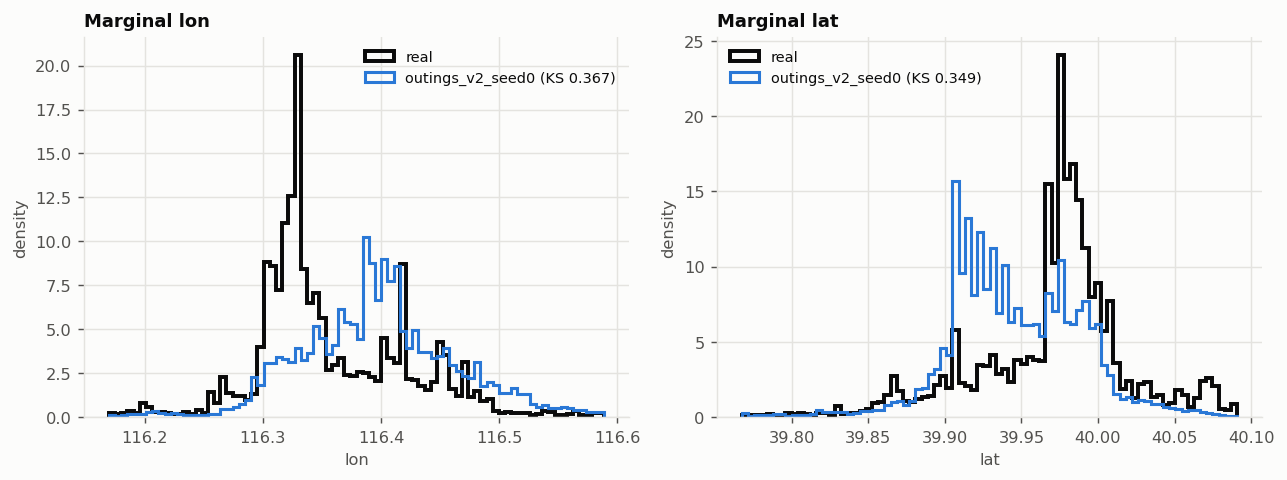
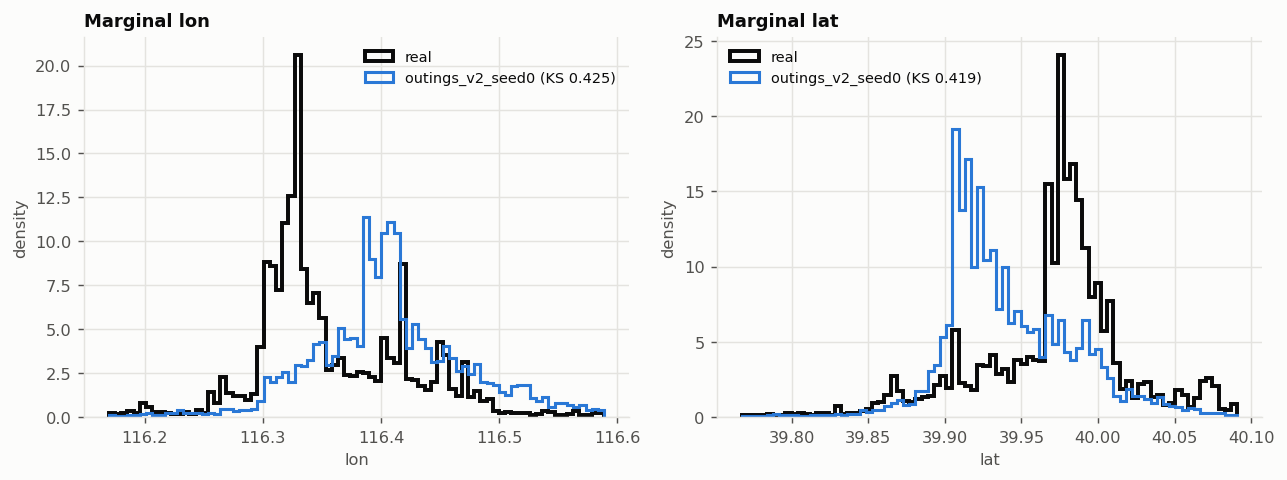
geolife step 8: refresh real-vs-synthetic comparison on the D27 artifacts; real map-matching results
- new compare_outings_v2_seed0_d27.{csv,md} (139 synthetic users generated into
  Beijing from the regenerated 26-table seed0 artifact vs the real Beijing frame);
  the pre-D27 baseline and steps-4/5 tables are kept as history.
- results/viz/outings_v2_seed0/ panels regenerated on the same run.
- results/match_real.json: HMM matcher on 422 real Beijing outings of 8 users
  over the cached Overture road graph (aggregates only).

diff --git a/src/algorithms/algo_aim/geolife/eval/results/viz/outings_v2_seed0/summary.md b/src/algorithms/algo_aim/geolife/eval/results/viz/outings_v2_seed0/summary.md
@@ -1,30 +1,30 @@
 | quantity | group | n_real | n_syn | real_mean | syn_mean | real_p50 | syn_p50 | real_p95 | syn_p95 | ks | wasserstein | tv | rel_err_mean | rel_err_p50 |
 |---|---|---|---|---|---|---|---|---|---|---|---|---|---|---|
-| sampling_interval | point | 1948679 | 2249607 | 3.43 | 4.82 | 2 | 3 | 5 | 20 | 0.174 | 1.63 | 0.277 | 0.405 | 0.5 |
-| gap_len | point | 19095 | 13366 | 436 | 523 | 199 | 188 | 1.88e+03 | 2.5e+03 | 0.119 | 90.6 | 0.23 | 0.199 | 0.0553 |
-| step_len | point | 1948679 | 2249607 | 13.3 | 11 | 6.42 | 4.83 | 45.1 | 38.5 | 0.113 | 2.75 | 0.212 | 0.17 | 0.248 |
-| speed | point | 1955426 | 2253990 | 5.09 | 2.59 | 2.19 | 1.53 | 18 | 7.55 | 0.227 | 2.7 | 0.336 | 0.491 | 0.301 |
-| speed_walk | point | 837742 | 1405666 | 2.79 | 1.68 | 1.24 | 1.27 | 12 | 3.31 | 0.167 | 1.46 | 0.329 | 0.398 | 0.0292 |
-| speed_bike | point | 415517 | 529557 | 4.59 | 3.21 | 3.02 | 2.91 | 14.6 | 6.4 | 0.186 | 1.78 | 0.277 | 0.3 | 0.0389 |
-| speed_bus | point | 280043 | 169273 | 7.02 | 4.89 | 5.69 | 4.63 | 18.4 | 10.8 | 0.234 | 2.38 | 0.34 | 0.303 | 0.186 |
-| speed_car | point | 221391 | 67543 | 10.7 | 7.96 | 10.9 | 7.33 | 21.7 | 20.4 | 0.189 | 2.93 | 0.246 | 0.259 | 0.329 |
-| speed_train | point | 27077 | 14907 | 16 | 13 | 17.2 | 11.7 | 27.5 | 35.2 | 0.316 | 5.6 | 0.407 | 0.185 | 0.32 |
-| heading_change | point | 993359 | 950179 | 11.6 | 20.7 | 3.53 | 4.99 | 49.1 | 124 | 0.113 | 8.96 | 0.164 | 0.779 | 0.413 |
-| stop_jitter | point | 20797 | 19916 | 67 | 62.7 | 65.4 | 61.5 | 108 | 109 | 0.116 | 4.53 | 0.122 | 0.0641 | 0.06 |
-| outing_length | outing | 17195 | 22733 | 15.2 | 12 | 9.56 | 8.2 | 48.6 | 35.5 | 0.0891 | 3.45 | 0.14 | 0.206 | 0.142 |
-| outing_duration | outing | 17195 | 22733 | 99.1 | 106 | 44.1 | 61.2 | 370 | 347 | 0.103 | 14.8 | 0.121 | 0.0655 | 0.387 |
-| stops_per_outing | outing | 17195 | 22733 | 1.13 | 0.873 | 0 | 0 | 5 | 4 | 0.0386 | 0.261 | 0.0386 | 0.23 |  |
-| stop_dwell | outing | 19494 | 19835 | 42.1 | 27.7 | 24 | 20.3 | 119 | 70.5 | 0.144 | 14.4 | 0.145 | 0.342 | 0.154 |
-| points_per_user | user | 179 | 139 | 1.019e+05 | 2.703e+05 | 2.48e+04 | 9.03e+04 | 4.180e+05 | 1.096e+06 | 0.315 | 1.684e+05 | 0.411 | 1.65 | 2.65 |
-| outings_per_user | user | 128 | 131 | 134 | 174 | 55 | 89 | 494 | 638 | 0.246 | 62.9 | 0.323 | 0.292 | 0.618 |
-| active_days | user | 128 | 131 | 75.4 | 85 | 37.5 | 45 | 245 | 308 | 0.2 | 24.9 | 0.321 | 0.128 | 0.2 |
-| distinct_places_per_user | user | 128 | 131 | 109 | 230 | 63 | 140 | 302 | 690 | 0.35 | 121 | 0.37 | 1.11 | 1.22 |
-| revisit_rate | user | 128 | 131 | 0.451 | 0.368 | 0.452 | 0.378 | 0.766 | 0.536 | 0.369 | 0.113 | 0.512 | 0.184 | 0.162 |
-| users_per_place | structure | 5022 | 9001 | 2.78 | 3.35 | 2 | 2 | 9 | 9 | 0.141 | 0.587 | 0.141 | 0.205 | 0 |
-| users_per_cell | structure | 12365 | 12378 | 9.72 | 13.1 | 4 | 5 | 37 | 58 | 0.0729 | 3.38 | 0.108 | 0.346 | 0.25 |
-| covisit_degree | structure | 128 | 131 | 19.2 | 18.1 | 12 | 14 | 50.6 | 44 | 0.129 | 2.66 | 0.312 | 0.0571 | 0.167 |
-| outing_start_hour_weekday | time | 12875 | 16721 |  |  |  |  |  |  |  |  | 0.121 |  |  |
-| outing_start_hour_weekend | time | 4320 | 6012 |  |  |  |  |  |  |  |  | 0.203 |  |  |
-| stop_hour_weekday | time | 13078 | 14598 |  |  |  |  |  |  |  |  | 0.198 |  |  |
-| stop_hour_weekend | time | 6416 | 5237 |  |  |  |  |  |  |  |  | 0.301 |  |  |
-| timebin_share | time | 17195 | 22733 |  |  |  |  |  |  |  |  | 0.102 |  |  |
+| sampling_interval | point | 1948679 | 2220012 | 3.43 | 4.66 | 2 | 3 | 5 | 19 | 0.167 | 1.49 | 0.287 | 0.357 | 0.5 |
+| gap_len | point | 19095 | 9614 | 436 | 695 | 199 | 217 | 1.88e+03 | 4.07e+03 | 0.17 | 259 | 0.251 | 0.595 | 0.0905 |
+| step_len | point | 1948679 | 2220012 | 13.3 | 8.57 | 6.42 | 3.02 | 45.1 | 30 | 0.233 | 4.89 | 0.297 | 0.354 | 0.529 |
+| speed | point | 1955426 | 2222591 | 5.09 | 2.13 | 2.19 | 0.954 | 18 | 7.74 | 0.293 | 3.01 | 0.369 | 0.581 | 0.565 |
+| speed_walk | point | 837742 | 1529992 | 2.79 | 1.28 | 1.24 | 0.836 | 12 | 2.84 | 0.281 | 1.66 | 0.39 | 0.542 | 0.325 |
+| speed_bike | point | 415517 | 332369 | 4.59 | 3.11 | 3.02 | 2.76 | 14.6 | 6.7 | 0.178 | 1.61 | 0.25 | 0.322 | 0.0872 |
+| speed_bus | point | 280043 | 142828 | 7.02 | 4.65 | 5.69 | 4.37 | 18.4 | 10.9 | 0.232 | 2.42 | 0.338 | 0.337 | 0.231 |
+| speed_car | point | 221391 | 90206 | 10.7 | 7.21 | 10.9 | 6.32 | 21.7 | 19.6 | 0.234 | 3.59 | 0.288 | 0.329 | 0.421 |
+| speed_train | point | 27077 | 10103 | 16 | 13.1 | 17.2 | 12.2 | 27.5 | 35.6 | 0.323 | 5.69 | 0.417 | 0.18 | 0.29 |
+| heading_change | point | 993359 | 638164 | 11.6 | 24.5 | 3.53 | 5.58 | 49.1 | 138 | 0.125 | 13 | 0.158 | 1.11 | 0.579 |
+| stop_jitter | point | 20797 | 17645 | 67 | 66.1 | 65.4 | 66.9 | 108 | 112 | 0.0883 | 4.74 | 0.137 | 0.0132 | 0.0228 |
+| outing_length | outing | 17195 | 17344 | 15.2 | 10.9 | 9.56 | 7.25 | 48.6 | 33 | 0.136 | 4.41 | 0.172 | 0.283 | 0.242 |
+| outing_duration | outing | 17195 | 17344 | 99.1 | 123 | 44.1 | 63 | 370 | 433 | 0.109 | 24.6 | 0.124 | 0.244 | 0.427 |
+| stops_per_outing | outing | 17195 | 17344 | 1.13 | 1.01 | 0 | 0 | 5 | 4 | 0.0314 | 0.186 | 0.0555 | 0.108 |  |
+| stop_dwell | outing | 19494 | 17531 | 42.1 | 30.9 | 24 | 18.5 | 119 | 93.1 | 0.117 | 11.2 | 0.118 | 0.267 | 0.228 |
+| points_per_user | user | 179 | 139 | 1.019e+05 | 2.424e+05 | 2.48e+04 | 7.07e+04 | 4.180e+05 | 1.022e+06 | 0.31 | 1.406e+05 | 0.373 | 1.38 | 1.85 |
+| outings_per_user | user | 128 | 126 | 134 | 138 | 55 | 72 | 494 | 479 | 0.177 | 37.6 | 0.317 | 0.0247 | 0.309 |
+| active_days | user | 128 | 126 | 75.4 | 67.9 | 37.5 | 42.5 | 245 | 242 | 0.0982 | 14.2 | 0.253 | 0.0993 | 0.133 |
+| distinct_places_per_user | user | 128 | 126 | 109 | 215 | 63 | 130 | 302 | 730 | 0.313 | 107 | 0.379 | 0.976 | 1.07 |
+| revisit_rate | user | 128 | 125 | 0.451 | 0.281 | 0.452 | 0.28 | 0.766 | 0.421 | 0.522 | 0.184 | 0.568 | 0.378 | 0.381 |
+| users_per_place | structure | 5022 | 8443 | 2.78 | 3.22 | 2 | 2 | 9 | 9 | 0.114 | 0.452 | 0.114 | 0.157 | 0 |
+| users_per_cell | structure | 12365 | 11834 | 9.72 | 10.8 | 4 | 4 | 37 | 47 | 0.0354 | 1.31 | 0.0799 | 0.115 | 0 |
+| covisit_degree | structure | 128 | 126 | 16.6 | 21.2 | 12 | 16.5 | 48.6 | 49 | 0.159 | 4.61 | 0.316 | 0.275 | 0.375 |
+| outing_start_hour_weekday | time | 12875 | 12748 |  |  |  |  |  |  |  |  | 0.137 |  |  |
+| outing_start_hour_weekend | time | 4320 | 4596 |  |  |  |  |  |  |  |  | 0.112 |  |  |
+| stop_hour_weekday | time | 13078 | 13027 |  |  |  |  |  |  |  |  | 0.181 |  |  |
+| stop_hour_weekend | time | 6416 | 4504 |  |  |  |  |  |  |  |  | 0.235 |  |  |
+| timebin_share | time | 17195 | 17344 |  |  |  |  |  |  |  |  | 0.0714 |  |  |

diff --git a/src/algorithms/algo_aim/geolife/eval/results/compare_outings_v2_seed0_d27.md b/src/algorithms/algo_aim/geolife/eval/results/compare_outings_v2_seed0_d27.md
@@ -1,0 +1,30 @@
+| quantity | group | n_real | n_syn | real_mean | syn_mean | real_p50 | syn_p50 | real_p95 | syn_p95 | ks | wasserstein | tv | rel_err_mean | rel_err_p50 |
+|---|---|---|---|---|---|---|---|---|---|---|---|---|---|---|
+| sampling_interval | point | 1948679 | 2220012 | 3.43 | 4.66 | 2 | 3 | 5 | 19 | 0.167 | 1.49 | 0.287 | 0.357 | 0.5 |
+| gap_len | point | 19095 | 9614 | 436 | 695 | 199 | 217 | 1.88e+03 | 4.07e+03 | 0.17 | 259 | 0.251 | 0.595 | 0.0905 |
+| step_len | point | 1948679 | 2220012 | 13.3 | 8.57 | 6.42 | 3.02 | 45.1 | 30 | 0.233 | 4.89 | 0.297 | 0.354 | 0.529 |
+| speed | point | 1955426 | 2222591 | 5.09 | 2.13 | 2.19 | 0.954 | 18 | 7.74 | 0.293 | 3.01 | 0.369 | 0.581 | 0.565 |
+| speed_walk | point | 837742 | 1529992 | 2.79 | 1.28 | 1.24 | 0.836 | 12 | 2.84 | 0.281 | 1.66 | 0.39 | 0.542 | 0.325 |
+| speed_bike | point | 415517 | 332369 | 4.59 | 3.11 | 3.02 | 2.76 | 14.6 | 6.7 | 0.178 | 1.61 | 0.25 | 0.322 | 0.0872 |
+| speed_bus | point | 280043 | 142828 | 7.02 | 4.65 | 5.69 | 4.37 | 18.4 | 10.9 | 0.232 | 2.42 | 0.338 | 0.337 | 0.231 |
+| speed_car | point | 221391 | 90206 | 10.7 | 7.21 | 10.9 | 6.32 | 21.7 | 19.6 | 0.234 | 3.59 | 0.288 | 0.329 | 0.421 |
+| speed_train | point | 27077 | 10103 | 16 | 13.1 | 17.2 | 12.2 | 27.5 | 35.6 | 0.323 | 5.69 | 0.417 | 0.18 | 0.29 |
+| heading_change | point | 993359 | 638164 | 11.6 | 24.5 | 3.53 | 5.58 | 49.1 | 138 | 0.125 | 13 | 0.158 | 1.11 | 0.579 |
+| stop_jitter | point | 20797 | 17645 | 67 | 66.1 | 65.4 | 66.9 | 108 | 112 | 0.0883 | 4.74 | 0.137 | 0.0132 | 0.0228 |
+| outing_length | outing | 17195 | 17344 | 15.2 | 10.9 | 9.56 | 7.25 | 48.6 | 33 | 0.136 | 4.41 | 0.172 | 0.283 | 0.242 |
+| outing_duration | outing | 17195 | 17344 | 99.1 | 123 | 44.1 | 63 | 370 | 433 | 0.109 | 24.6 | 0.124 | 0.244 | 0.427 |
+| stops_per_outing | outing | 17195 | 17344 | 1.13 | 1.01 | 0 | 0 | 5 | 4 | 0.0314 | 0.186 | 0.0555 | 0.108 |  |
+| stop_dwell | outing | 19494 | 17531 | 42.1 | 30.9 | 24 | 18.5 | 119 | 93.1 | 0.117 | 11.2 | 0.118 | 0.267 | 0.228 |
+| points_per_user | user | 179 | 139 | 1.019e+05 | 2.424e+05 | 2.48e+04 | 7.07e+04 | 4.180e+05 | 1.022e+06 | 0.31 | 1.406e+05 | 0.373 | 1.38 | 1.85 |
+| outings_per_user | user | 128 | 126 | 134 | 138 | 55 | 72 | 494 | 479 | 0.177 | 37.6 | 0.317 | 0.0247 | 0.309 |
+| active_days | user | 128 | 126 | 75.4 | 67.9 | 37.5 | 42.5 | 245 | 242 | 0.0982 | 14.2 | 0.253 | 0.0993 | 0.133 |
+| distinct_places_per_user | user | 128 | 126 | 109 | 215 | 63 | 130 | 302 | 730 | 0.313 | 107 | 0.379 | 0.976 | 1.07 |
+| revisit_rate | user | 128 | 125 | 0.451 | 0.281 | 0.452 | 0.28 | 0.766 | 0.421 | 0.522 | 0.184 | 0.568 | 0.378 | 0.381 |
+| users_per_place | structure | 5022 | 8443 | 2.78 | 3.22 | 2 | 2 | 9 | 9 | 0.114 | 0.452 | 0.114 | 0.157 | 0 |
+| users_per_cell | structure | 12365 | 11834 | 9.72 | 10.8 | 4 | 4 | 37 | 47 | 0.0354 | 1.31 | 0.0799 | 0.115 | 0 |
+| covisit_degree | structure | 128 | 126 | 16.6 | 21.2 | 12 | 16.5 | 48.6 | 49 | 0.159 | 4.61 | 0.316 | 0.275 | 0.375 |
+| outing_start_hour_weekday | time | 12875 | 12748 |  |  |  |  |  |  |  |  | 0.137 |  |  |
+| outing_start_hour_weekend | time | 4320 | 4596 |  |  |  |  |  |  |  |  | 0.112 |  |  |
+| stop_hour_weekday | time | 13078 | 13027 |  |  |  |  |  |  |  |  | 0.181 |  |  |
+| stop_hour_weekend | time | 6416 | 4504 |  |  |  |  |  |  |  |  | 0.235 |  |  |
+| timebin_share | time | 17195 | 17344 |  |  |  |  |  |  |  |  | 0.0714 |  |  |
